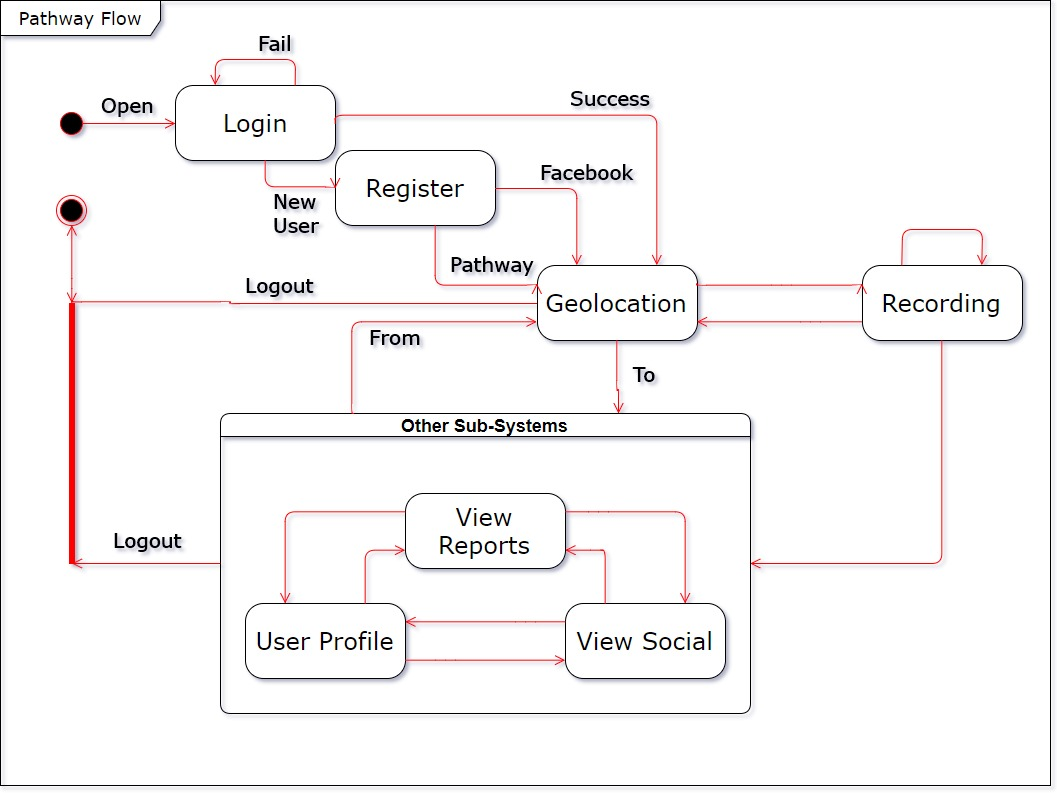
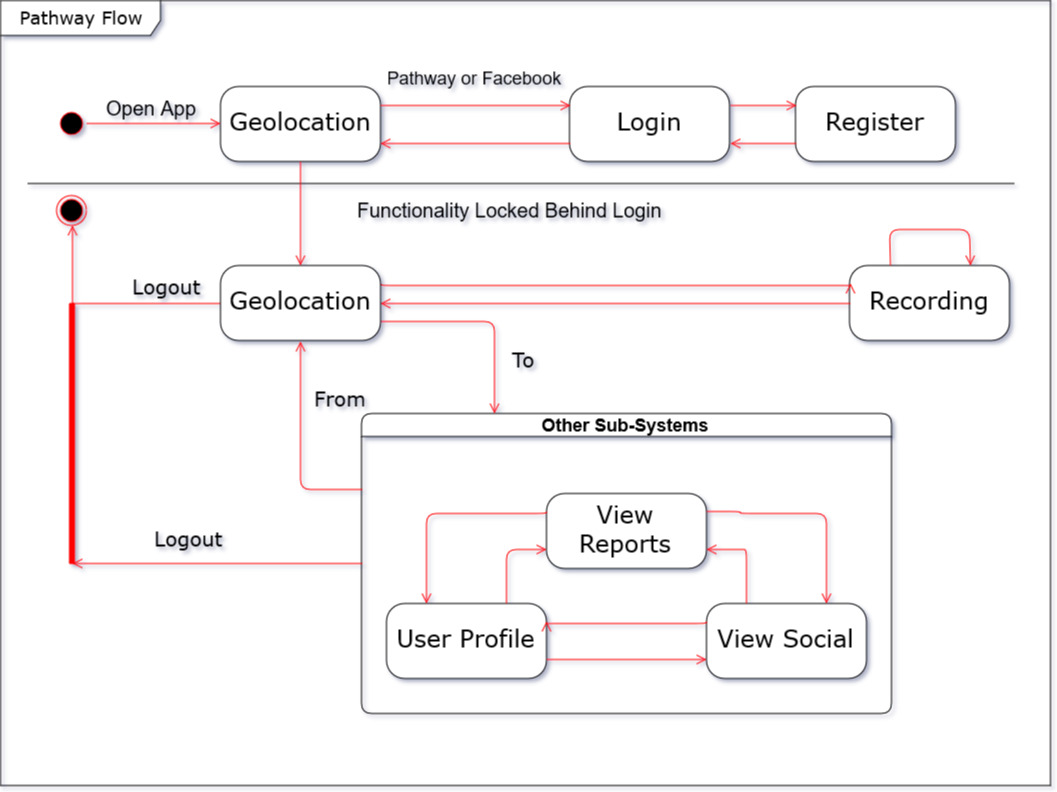
Replaced system flow and system model diagrams.
Added reference supporting assertion that competition is good for fitness programs. Small corrections to grammar and sentence structure in various places.

diff --git a/project_report/main.tex b/project_report/main.tex
@@ -1329,7 +1329,7 @@ The above algorithm uses a counter to limit the number of times a recursive call
 
 
 \paragraph{Hausdorff Distance}
-The Hausdorff distance, named after Felix Hausdorff, measures how far two subsets of a metric are from each other. \cite{g_wiki_hausdorff_2017} The Hausdorff distance compares sets of points, and as such, is unaffected by the ordering of the sets. This makes it especially suitable for use in Pathway to determine if one traversed Route is the same as another, regardless of starting point along that Route. The following pseudocode was adapted from an online source.\cite{g_hausdorff_code}
+The Hausdorff distance, named after Felix Hausdorff, measures how far two subsets of a metric are from each other. \cite{g_wiki_hausdorff_2017} The Hausdorff distance considers features as sets of points, and as such, is unaffected by the ordering of the points within the set. This makes it especially suitable for use in Pathway to determine if one traversed Route is the same as another, regardless of starting point along that Route. The following pseudocode was adapted from an online source.\cite{g_hausdorff_code}
 
 \begin{algorithm}[h]
 \SetAlgoLined
@@ -1356,7 +1356,7 @@ Hausdorff distance is the best candidate for our purposes, as it treats lines as
 
 
 \paragraph{Fréchet Distance}
-The Fréchet distance is a measure of similarity between curves that takes into account the location and ordering of the points along the curves.\cite{g_wiki_frechet_2017} It is more complex and harder to implement, but generally more versatile and supports backtracking. Unlike Hausdorff distance, Fréchet distance does consider ordering of points of when performing comparisons.
+The Fréchet distance is a measure of similarity between curves that takes into account the location and ordering of the points along the curves.\cite{g_wiki_frechet_2017} It is more complex and harder to implement, but generally more versatile and supports backtracking. Unlike Hausdorff distance, Fréchet distance does consider ordering of points of when performing comparisons, and as such, would be suitable for comparisons where two Users are simultaneously running against one another on the same Route. Pathway does not currently implement the functionality for that scenario at this time.
 
 
 \begin{algorithm}[h]
@@ -1375,7 +1375,7 @@ ca: array[1..p,1..q] of real;\\
 \ElseIf{\(i > 1\) AND \(j > 1\)}{ca(i,j) \gets max(min(c(i-1,j),c(i-1,j-1), c(i, j-1)), d($u_1$, $v_1$))}
 \end{algorithm}
 
-The above implementation of the discrete Fréchet distance, as described by Eiter and Mannila\cite{g_frechetcompute_1994}, runs in O(pq) for initial assignment and  O(pq) for calculation of ca(p,q) for a total of O(pq) time. 
+The above implementation of the discrete Fréchet distance, as described by Eiter and Mannila\cite{g_frechetcompute_1994}, runs in O(p x q) for initial assignment and  O(p x q) for calculation of ca(p,q) for a total of O(p x q) time. 
 
 \pagebreak
 \paragraph{Algorithms Testing}
@@ -1388,6 +1388,7 @@ The above implementation of the discrete Fréchet distance, as described by Eite
     \label{fig:my_label}
 \end{figure}
 The previously mentioned algorithms were tested against the above routes. Results are summarized in table form on the next page. Cells marked in grey represent where Routes were compared to themselves and are trivially true. Comparisons were performed with a 25m tolerance for comparison acceptance of points. Hausdorff and Fréchet algorithms return a distance value, which was then accepted if the distance was within the 25m tolerance.
+The following charts show the results of comparisons between pairs of Routes from Figure 17. Cells shaded in gray are cases where the comparisons are trivially true. i.e, the Route was compared to itself. No comparisons were performed in cases where there was no expectation of similarity, and such cases were left blank on the charts.
 \pagebreak
 \begin{figure}[H]
     \centering
@@ -1423,7 +1424,10 @@ The Simple Comparison works as expected, correctly identifying similar routes Re
 The Hausdorff comparison works as expected in all cases, correctly matching Red and Blue, Orange and Purple, and Pink and White as matching, and Yellow and Green as not matching. Further, the Hausdorff algorithm correctly identifies route similarity in cases where Routes are reversed. This most closely matches the needed functionality for Pathway's purposes.
 
 
-The Frechet comparison does a better job matching less linear features correctly, but also pays attention to point order within Routes. This gives it the same shortcoming as the Simple Comparison algorithm. While still useful, this shortcoming makes it less than ideal for use in Pathway.
+The Fréchet comparison does a better job matching less linear features correctly, but also pays attention to point order within Routes. This gives it the same shortcoming as the Simple Comparison algorithm. While still useful, this shortcoming makes it less than ideal for use in Pathway.
+
+
+For Pathway's purposes, the above implementation of Hausdorff distance seems to be the most useful and appropriate algorithm to determine similarity of two routes and is the one we have selected. However, the Fréchet distance could be useful in cases where point order, such as direct competition or Route racing scenarios that might be developed for Pathway in the future, and therefore could also be used at such time.
 
 \pagebreak
 \paragraph{Tool Selection}
@@ -2092,6 +2096,8 @@ The idea for the second design, which is what was used for the sub-system, was t
 \section{Pathway - Domain Analysis}
 This document serves as an overview for the planned development of a software system, named Pathway, that is intended to address the difficulties in staying motivated to exercise by incorporating elements of social interaction and friendly competition as a means to motivate through a mobile application interface.
 
+According to a recent study in the Journal for Preventive Medicine Reports, successful fitness programs can be linked to friendly competition and social support.\cite{g_zhang_support_2016} Pathway seeks to make use of these motivation mechanisms through by leveraging social networking to promote interaction and competition amongst users, while also allowing users to track progress of their fitness goals.
+
 \paragraph{Pathway - Extensions}
 \begin{itemize}
     \item Increased social networking functionality.
@@ -2118,12 +2124,12 @@ Target users would include all individuals that:
 \end{itemize}
 
 \paragraph{Pathway - Computing Environment}
-Primary functionality will be developed for Android 5.0 (Lollipop) and as such will be unsupported on version of Android prior to 5.0. Specific system requirements are not yet determined. No additional client requirements will be necessary for database and server access, other than an active network connection.
+Primary functionality will be developed for Android 5.0 (Lollipop) and as such will be unsupported on version of Android prior to 5.0. No additional client requirements will be necessary for database and server access, other than an active network connection.
 
 \subsection{Pathway - Tasks and Procedures}
 Currently the general process of selecting a route to traverse (walk, run, or cycle) and then sharing information goes as follows:
 \begin{enumerate}
-    \item A user solicits route information from friends and acquaintances.
+    \item A user solicits route information from friends and/or acquaintances.
         \begin{itemize}
             \item If successful, the user may use an existing application to log route and speed information.
             \item This information can be exported to an application, such as excel, and analyzed.
@@ -2137,15 +2143,15 @@ Currently the general process of selecting a route to traverse (walk, run, or cy
     \item A user may use a $3^rd$ party application to find a group with which to walk or run or bike with.
         \begin{itemize}
             \item This method has the advantage of added support from the group.
-            \item The user is more likely to finish and even more likely to perform better than if alone.
+            \item The user is more likely to finish and even more likely to perform better than if alone, according to current literature in the field.
         \end{itemize}
 \end{enumerate}
 
 \subsection{Pathway - Competing Software}
 The following applications/software may fulfill similar roles or offer similar functionality as that proposed in this document for Pathway:
 \begin{itemize}
-    \item MyTracks - Offers only basic data collection (Lat/Long position, elevation) dependent on device sensors, and no analysis options.
-    \item FitBit App - Offers data collection and basic analysis of user performance.
+    \item MyTracks - Offers only basic data collection (Lat/Long position, elevation) dependent on device sensors, and no analysis options. As of 2016, application is no longer available.
+    \item FitBit App - Offers data collection and basic analysis of user performance, requires fit-bit device.
     \item iOS Health - Offers basic data collection and limited analysis of performance.
     \item LG Health - Offers route tracking and calorie journal. Still lacks any social networking component.
 \end{itemize}
